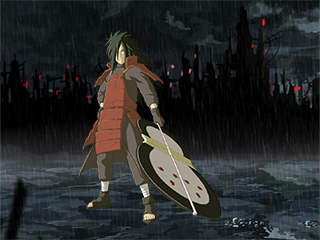
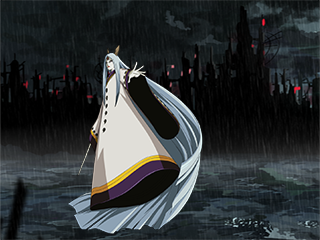
added summons

Changed region(s): [[0.2188, 0.1167, 0.6875, 0.9917]]

diff --git a/routes/alias.js b/routes/alias.js
@@ -25,7 +25,7 @@ router.get('/fix_affiliation', function(req, res) {
 function addSummon(img, alias, callback) {
 	if (alias.summon != 'none') {
 		Jimp.read('public/images/5_summon_' + alias.summon + '.png', function(err, summon) {
-			if (err) return res.json(alias);
+			if (err) return callback(img);
 			img.composite(summon, 0, 0);
 			return callback(img);
 		});
@@ -37,7 +37,7 @@ function addSummon(img, alias, callback) {
 function addCharacter(img, alias, callback) {
 	if (alias.character != 'none') {
 		Jimp.read('public/images/10_char_' + alias.character + '.png', function(err, character) {
-			if (err) return res.json(alias);
+			if (err) return callback(img);
 			img.composite(character, 0, 0);
 			return callback(img);
 		});
@@ -469,10 +469,10 @@ router.put('/:username/summon/:summon', function(req, res) {
 		if (err) return res.status(500).json({ error: err });
 		else if (!alias) return res.status(404).json({ error: 'Player not found.' });
 		if (!summons[req.params.summon]) return res.status(404).json({ error: 'Summon not found' });
-		else if (alias.level < summons[req.params.character].level) return res.status(400).json({ error: 'You don\'t have enough level to buy this summon.' });
-		else if (alias.gold < summons[req.params.character].gold) return res.status(400).json({ error: 'You don\'t have enough gold to buy this summon.' });
+		else if (alias.level < summons[req.params.summon].level) return res.status(400).json({ error: 'You don\'t have enough level to buy this summon.' });
+		else if (alias.gold < summons[req.params.summon].gold) return res.status(400).json({ error: 'You don\'t have enough gold to buy this summon.' });
 		alias.summon = req.params.summon;
-		alias.gold -= summons[req.params.character].gold;
+		alias.gold -= summons[req.params.summon].gold;
 		alias.save(function(err) {
 			if (err) return res.status(500).json({ error: err });
 			return res.status(200).send();

diff --git a/bot/bot.js b/bot/bot.js
@@ -40,7 +40,8 @@ var displayLastGames = require('./commands/displaylastgames');
 var displayLastRecordedGames = require('./commands/displaylastrecordedgames');
 var displayGameInfo = require('./commands/displaygameinfo');
 var buy = require('./commands/buy');
-var join = require('./commands/join');
+var join = require('./commands/join'); 
+var summon = require('./commands/summon');
 var character = require('./commands/character');
 var giveGold = require('./commands/givegold');
 var setStatus = require('./commands/setstatus');
